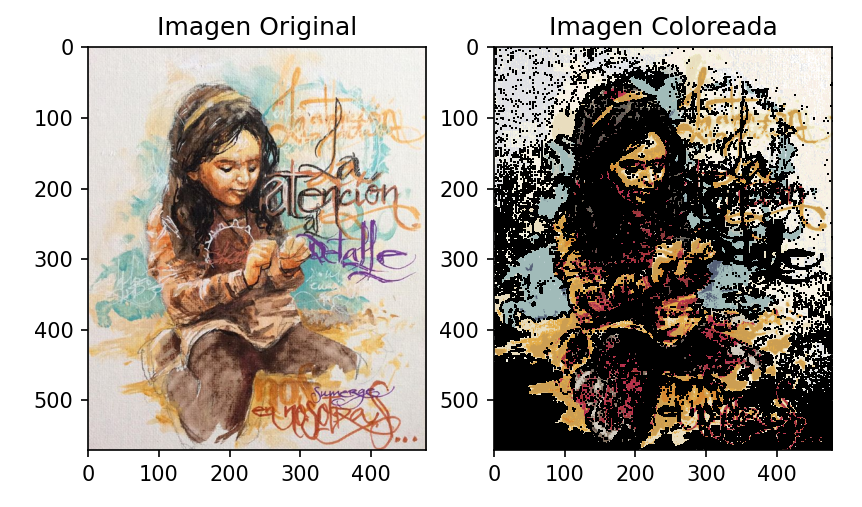
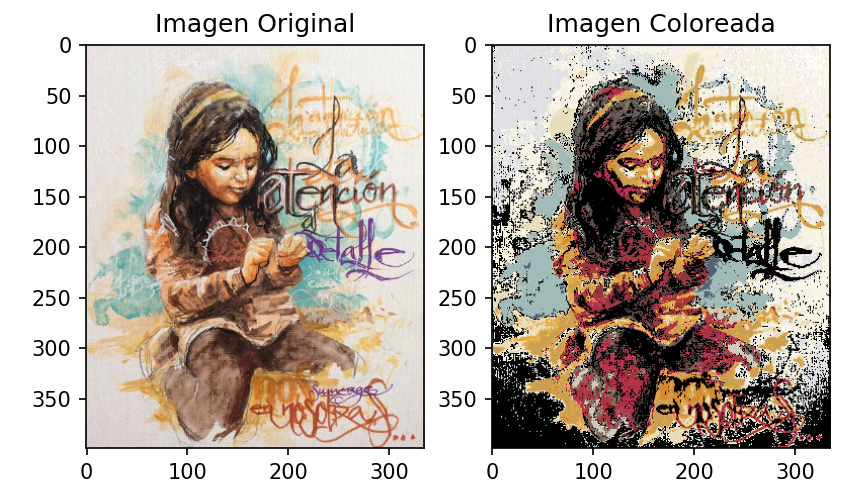
Pixel error solution

diff --git a/recolor.py b/recolor.py
@@ -13,8 +13,8 @@ from fuzzy.membershipfunction.Spline05Function1D import Spline05Function1D
 
 def main():
     # Aca estoy usando el 70 por ciento del tamaño original de la imagen, lo mejor para reducir 
-    IMG_WIDTH = 479
-    IMG_HEIGHT = 571
+    IMG_WIDTH = 335
+    IMG_HEIGHT = 400
     img_path = ".\\imagen_test\\cuadro.png"
     color_space_path = '.\\fuzzy_color_spaces\\BRUGUER-ACRYLIC.cns'
 
@@ -127,6 +127,7 @@ def main():
 
     new_image = new_image / 255.0
 
+    new_image = np.nan_to_num(new_image)
 
 ######################################################################## Results ########################################################################
     # Mostrar la imagen original
